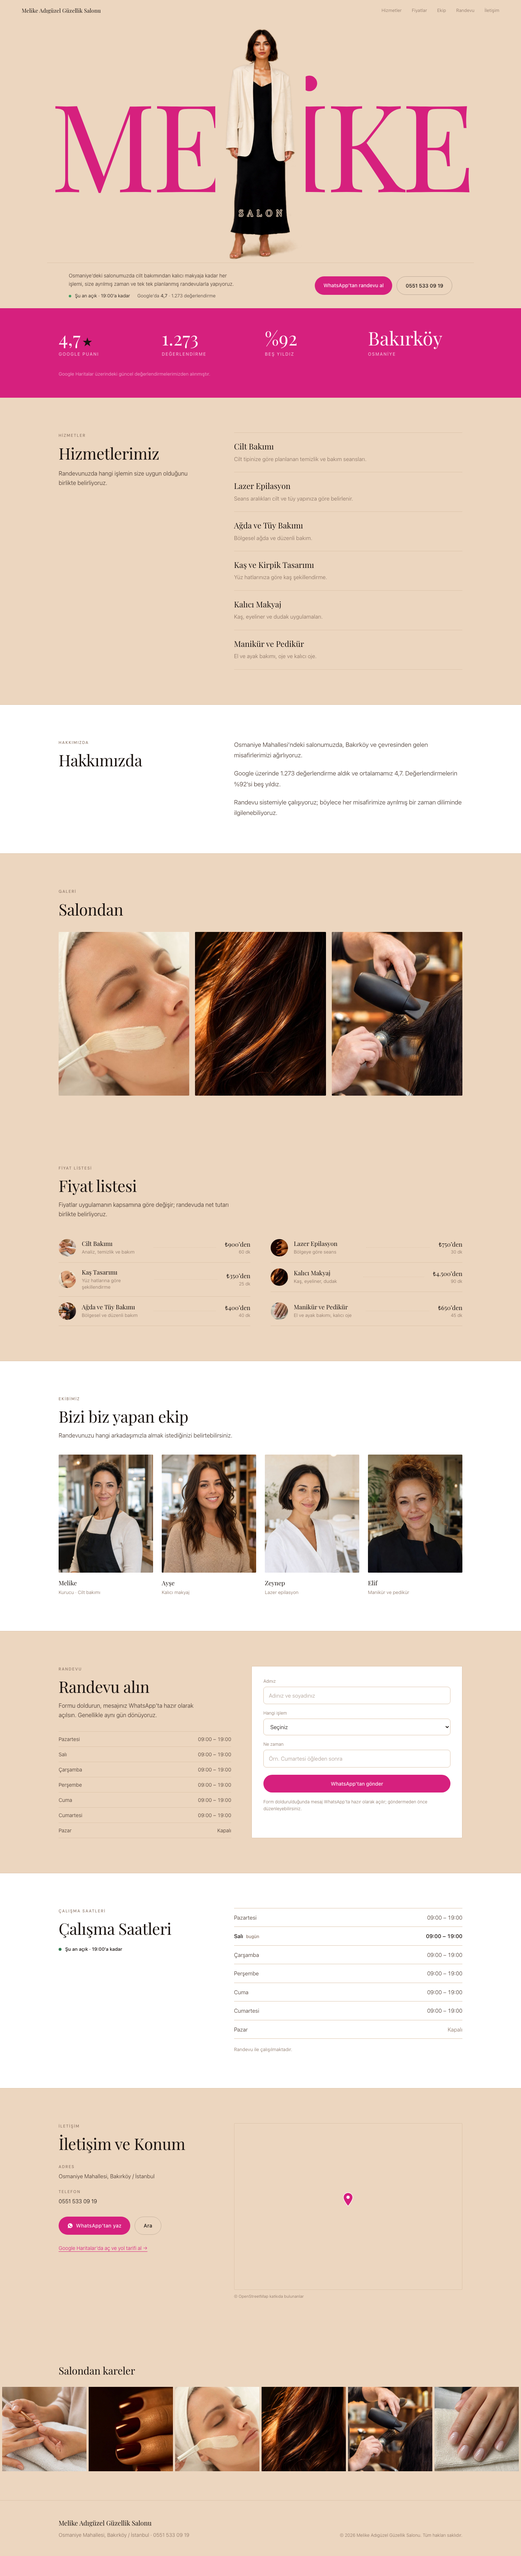
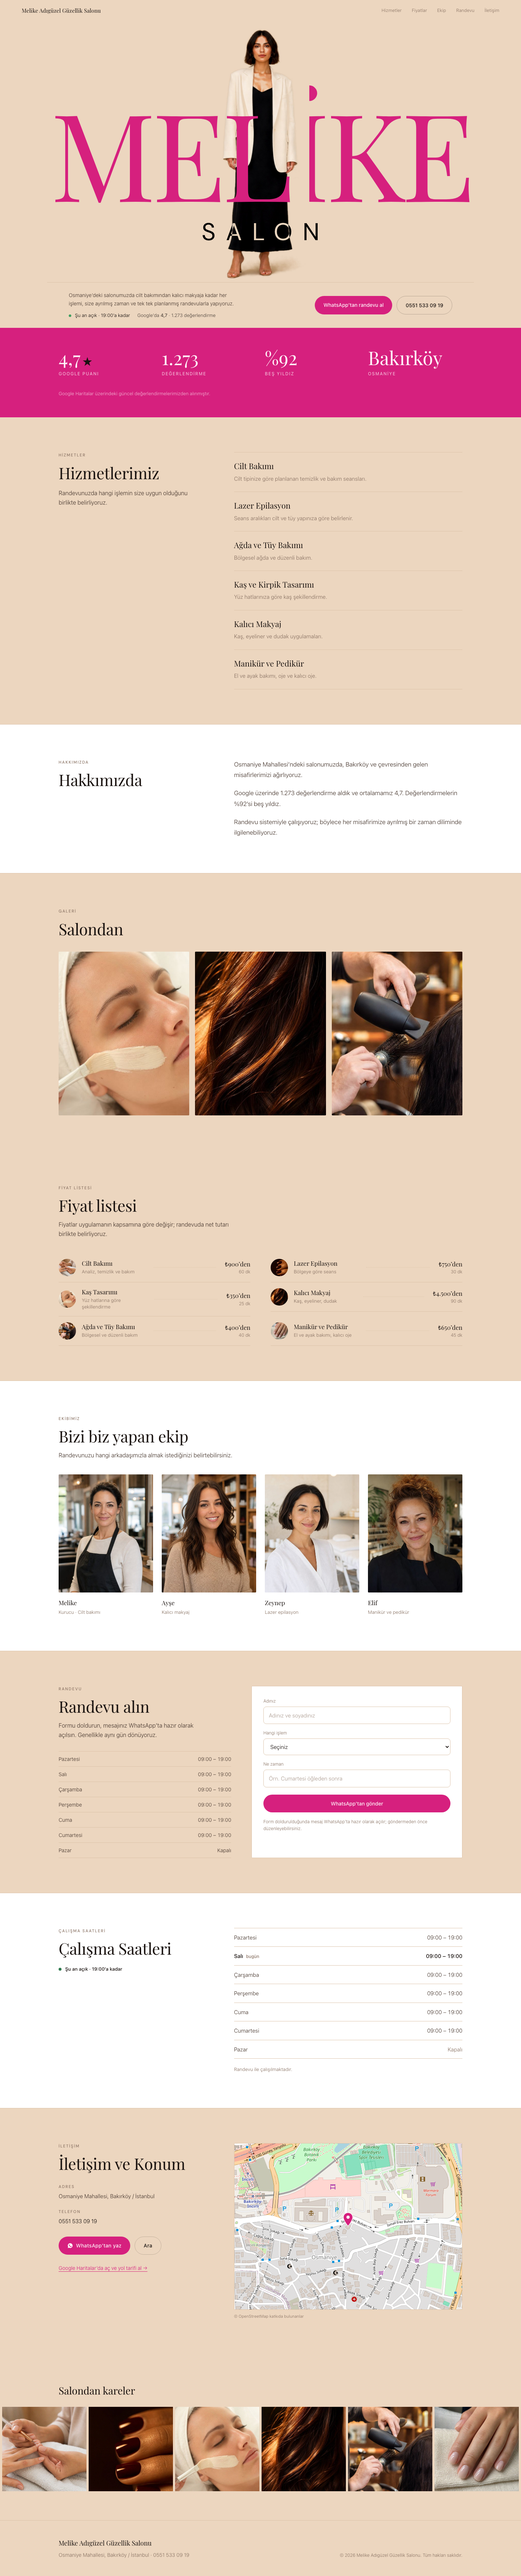
fix(kesim-wrap): weave the name through the figure, blend SALON (#13)
Comparing the live page against the artifact side by side: in the reference the
A of BEAUTY crosses in *front* of the model's sleeve while the U immediately
after it disappears *behind* her body. That one relationship is what gives the
composition depth. A word placed wholly behind the figure — which is what the
last pass built — is flat.

So the name is drawn twice, once either side of the photograph, each copy
hiding the half that belongs to the other. Identical layout in both keeps the
letters aligned; the changeover lands on her because she stands in the middle.

SALON was not right either. It is now sans, sized and tracked off the
reference, and blended rather than outlined: difference against the ground
colour cancels to pure black on the beige and returns the beige itself over her
black dress, which is exactly the two-tone the artifact shows. That needed the
stage to become the blending root, and an isolated group starts on transparent
black — hence the explicit background, without which the letters kept their own
colour and disappeared against the ground.

The figure also stands taller: the stage went from 74vh to 80vh.

Claude-Session: https://claude.ai/code/session_019P5K1ry6DM4vvZ84PTD6Fj

diff --git a/components/site/heroes/Kesim.tsx b/components/site/heroes/Kesim.tsx
@@ -6,18 +6,23 @@ import { ScrollScene } from "../ScrollScene";
 /**
  * 01 Kesim — the UNICKA hero.
  *
- * Three layers and only three: the salon's name set enormous and sitting *behind* the
- * subject, the subject herself, and a letterspaced second word drawn over her.
+ * The name is woven through the subject rather than laid behind her. In the reference
+ * the A of BEAUTY crosses in front of the model's sleeve while the U immediately after
+ * it disappears behind her body; that one detail is what gives the composition depth,
+ * and it is the whole trick. The first half of the letters is in front of her, the
+ * second half behind, and because she stands in the middle the changeover always lands
+ * on her — so the word reads as passing around a person rather than stacked with one.
  *
- * The earlier version drew the lower half of the big word back over her body, which put
- * a hard horizontal seam across every letter that crossed her — the word looked cut in
- * half rather than layered. The reference does no such thing: the word simply passes
- * behind her, and the only thing in front is SALON, which stays readable over her black
- * dress because it carries an outline in the page's own ground colour.
+ * It is drawn as two identical copies of the word, one in front of the photograph and
+ * one behind it, each hiding the half that belongs to the other. Identical layout in
+ * both means the letters line up exactly; `visibility: hidden` keeps the metrics.
  *
- * The photograph keeps its own studio backdrop, flattened to exactly --ground, so the
- * image has no visible edge and no transparency is needed. See work notes in
- * docs/DECISIONS.md.
+ * SALON blends rather than outlines: `mix-blend-mode: difference` against the ground
+ * colour renders pure black over the beige and the beige itself over her black dress,
+ * which is precisely the two-tone the reference has.
+ *
+ * The photograph keeps its own studio backdrop, flattened to exactly --ground, so it
+ * has no visible edge and needs no transparency. See docs/DECISIONS.md.
  */
 export function Kesim({
   section,
@@ -37,6 +42,24 @@ export function Kesim({
   // its own length: roughly 84% of the viewport divided by the letters in it. Long names
   // get smaller type rather than an overflowing line.
   const vw = Math.min(24, 140 / Math.max(letters.length, 3));
+  const split = Math.ceil(letters.length / 2);
+
+  const copy = (side: "front" | "back") => (
+    <p aria-hidden="true" className={`kesim-word kesim-word-${side} font-display`}>
+      {letters.map((letter, index) => {
+        const belongsHere = side === "front" ? index < split : index >= split;
+        return (
+          <span
+            key={`${letter}-${index}`}
+            className={belongsHere ? undefined : "kesim-ghost"}
+            style={{ ["--i" as string]: index }}
+          >
+            {letter}
+          </span>
+        );
+      })}
+    </p>
+  );
 
   return (
     <ScrollScene className="relative overflow-hidden" style={{ background: "var(--ground)" }}>
@@ -48,13 +71,9 @@ export function Kesim({
         className="kesim-stage"
         style={{ ["--kesim-word" as string]: `clamp(64px, ${vw.toFixed(2)}vw, 350px)` }}
       >
-        <p aria-hidden="true" className="kesim-word font-display">
-          {letters.map((letter, index) => (
-            <span key={`${letter}-${index}`} style={{ ["--i" as string]: index }}>
-              {letter}
-            </span>
-          ))}
-        </p>
+        <h1 className="sr-only">{section.headline}</h1>
+
+        {copy("back")}
 
         {/* eslint-disable-next-line @next/next/no-img-element */}
         <img
@@ -65,7 +84,9 @@ export function Kesim({
           decoding="async"
         />
 
-        <p aria-hidden="true" className="kesim-sub font-display">
+        {copy("front")}
+
+        <p aria-hidden="true" className="kesim-sub">
           SALON
         </p>
       </div>

diff --git a/app/globals.css b/app/globals.css
@@ -569,9 +569,18 @@ h3 {
   grid-template-rows: minmax(0, 1fr);
   grid-template-columns: minmax(0, 1fr);
   place-items: center;
-  height: clamp(420px, 74vh, 780px);
+  height: clamp(440px, 80vh, 860px);
   padding: 0 clamp(20px, 5vw, 60px);
   overflow: hidden;
+  /* SALON blends with what is painted under it, so the stage has to be the blending
+     root: left to resolve at the document root, the composited photograph was not part
+     of the backdrop the blend could see and the letters came out pure black over her
+     dress. Isolating also keeps these z-indexes local to the hero.
+     The background here is not decoration — an isolated group starts on transparent
+     black, and difference blending against nothing left the letters their own colour,
+     which is the ground, which made them vanish on the ground. */
+  isolation: isolate;
+  background: var(--ground);
 }
 
 .kesim-word,
@@ -580,8 +589,21 @@ h3 {
   grid-area: 1 / 1;
 }
 
-.kesim-word {
+/* Two identical copies of the name, one either side of the photograph. Each hides the
+   half that belongs to the other, so the letters keep their exact positions and the
+   word appears to pass around her: the letter before the changeover crosses in front of
+   her sleeve, the one after it disappears behind her. */
+.kesim-word-back {
   z-index: 1;
+}
+.kesim-word-front {
+  z-index: 3;
+}
+.kesim-ghost {
+  visibility: hidden;
+}
+
+.kesim-word {
   margin: 0;
   align-self: center;
   font-size: var(--kesim-word);
@@ -617,27 +639,26 @@ h3 {
 /* SALON sits over her. Dark ink reads on the ground; the ring of --ground behind the
    glyphs is what keeps it readable where it crosses her black dress — the same trick
    the reference uses, and the reason it can sit anywhere on the figure. */
+/* SALON is the second word, drawn over her, and it has to be legible on the beige
+   ground and on a black dress at the same time. Difference blending against the ground
+   colour does exactly that with no outline: where the backdrop is the ground it cancels
+   to pure black, where the backdrop is her dress it returns the ground colour. Sized
+   and placed as a fraction of the big word so the pair holds at every viewport. */
 .kesim-sub {
-  z-index: 3;
+  z-index: 4;
   margin: 0;
   align-self: center;
-  color: var(--ink);
-  font-size: clamp(12px, 1.9vw, 24px);
-  letter-spacing: 0.46em;
-  text-indent: 0.46em;
+  font-family: var(--font-body-active), "Helvetica Neue", Arial, sans-serif;
+  font-weight: 400;
+  color: var(--ground);
+  mix-blend-mode: difference;
+  font-size: calc(var(--kesim-word) * 0.2);
+  letter-spacing: 0.42em;
+  text-indent: 0.42em;
   line-height: 1;
   white-space: nowrap;
   pointer-events: none;
-  transform: translateY(calc(var(--kesim-word) * 0.58));
-  text-shadow:
-    0 0.07em 0 var(--ground),
-    0 -0.07em 0 var(--ground),
-    0.07em 0 0 var(--ground),
-    -0.07em 0 0 var(--ground),
-    0.05em 0.05em 0 var(--ground),
-    -0.05em 0.05em 0 var(--ground),
-    0.05em -0.05em 0 var(--ground),
-    -0.05em -0.05em 0 var(--ground);
+  transform: translateY(calc(var(--kesim-word) * 0.66));
   animation: kesim-fade 0.8s ease 1.35s both;
   translate: 0 calc(var(--sy) * -70px);
 }
@@ -694,7 +715,7 @@ h3 {
     opacity: 1 !important;
   }
   .kesim-sub {
-    transform: translateY(calc(var(--kesim-word) * 0.58)) !important;
+    transform: translateY(calc(var(--kesim-word) * 0.66)) !important;
   }
 }
 

diff --git a/docs/DECISIONS.md b/docs/DECISIONS.md
@@ -48,3 +48,5 @@ Append-only. One line per decision, newest last.
 2026-09-08 — Kesim's hero entrance is staged: the name unfurls alone on the empty ground (scaleX from the left, each letter unwinding a rotation), and only once it has settled does the subject fade in, then SALON. Timed off the reference recording, where the word is complete for ~700ms before the model appears.
 2026-09-08 — SalonNav takes cta={false} and Kesim uses it; the hero already carries the appointment button, and two on one screen reads as an unconsidered template.
 2026-09-08 — The studio's "Add a lead by hand" form is a plain section, not a collapsed <details> — the operator looked for it, missed the disclosure triangle, and reported the feature as missing.
+2026-09-08 — The Kesim name is drawn twice, once behind the subject and once in front, each copy hiding the half that belongs to the other: the first half of the letters passes in front of her, the second half behind. That single detail — the A of BEAUTY crossing the sleeve while the U right after it disappears behind the body — is what gives the reference its depth, and a word simply placed behind the figure does not have it.
+2026-09-08 — SALON uses mix-blend-mode: difference against the ground colour instead of an outline: it cancels to pure black on the ground and returns the ground colour over her black dress, which is the two-tone the reference has. The stage carries isolation:isolate AND an opaque background — an isolated group starts on transparent black, so without the background the letters kept their own colour and vanished against the ground.
